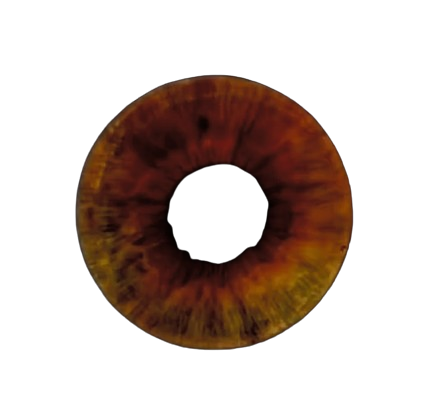
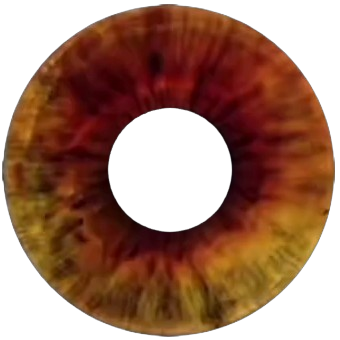
feature eye rotate

diff --git a/src/components/InfoMain.js b/src/components/InfoMain.js
@@ -1,24 +1,31 @@
 import React, { useState, useEffect } from 'react';
 import { Link } from 'react-router-dom';
 import '../App.css';
-import Eye1 from '../pictures/eye1.png'
+import Eye1 from '../pictures/eye1.png';
+import Eye2 from '../pictures/eye2.png';
+import Eye3 from '../pictures/eye3.png';
+import Eye4 from '../pictures/eye4.png';
+import Eye5 from '../pictures/eye5.png';
+import Eye6 from '../pictures/eye6.png';
+import Eye7 from '../pictures/eye7.png';
+import Eye8 from '../pictures/eye8.png';
 
 function InfoMain() {
   const [isHovered, setIsHovered] = useState(false);
   const [isHoneyVisible, setIsHoneyVisible] = useState(true);
-  const [showImage, setShowImage] = useState(false); // For image display
+  const [startAnimation, setStartAnimation] = useState(false); // Zustand für Animation
 
   useEffect(() => {
     let timer;
     if (isHovered) {
-      // Start a 3-second timer when hovered
+      // 3-Sekunden-Timer für das Ausblenden des Textes
       timer = setTimeout(() => {
-        setIsHoneyVisible(false);  // Hide the button after 3 seconds
-      }, );
+        setIsHoneyVisible(false);
+        setStartAnimation(true); // Start Animation nach 3 Sekunden
+      }, 20);
     }
 
-    // Cleanup the timer when hover stops or component unmounts
-    return () => clearTimeout(timer);
+    return () => clearTimeout(timer); // Timer bereinigen
   }, [isHovered]);
 
   return (
@@ -34,27 +41,70 @@ function InfoMain() {
         <Link to="/opal-videos"><button className='button5'>Opal Videos</button></Link>
 
         <Link to="/Honey">
-          <button
-            className='buttonHoney'
-            onMouseEnter={() => setIsHovered(true)}
-          >
+          <button className='buttonHoney' onMouseEnter={() => setIsHovered(true)}>
             Honey
           </button>
         </Link>
 
-        {isHovered && <span className='hover-text'>I love you Honey</span>}
+        {isHovered && (
+          <div className="text-container">
+            <span className='hover-text'>I love you Honey</span>
+          </div>
+        )}
+
+        {/* Separater Container für das Auge */}
+        {startAnimation && (
+          <div className="eye-animation-container">
+            <EyeAnimation />
+          </div>
+        )}
+
+
+
+
 
         <Link to="/Miko"><button className='button7'>Miko</button></Link>
 
-        {/* This text will disappear after 3 seconds */} 
-        {isHoneyVisible && <span className='hover-text-honey' onMouseEnter={() => setIsHovered(true)}>hover me my love</span>}
-
-        {/* Image appears when hovered */}
-        {isHoneyVisible && <span className='love'></span>}
-
+        {isHoneyVisible && (
+          <span className='hover-text-honey' onMouseEnter={() => setIsHovered(true)}>
+            hover me my love
+          </span>
+        )}
       </div>
     </div>
   );
 }
+
+// Augen-Animation Komponente
+function EyeAnimation() {
+  const [currentImage, setCurrentImage] = useState(0);
+
+  const images = [Eye1, Eye2, Eye3, Eye4, Eye5, Eye6, Eye7, Eye8]; // Deine neuen Augenbilder
+
+  useEffect(() => {
+    const interval = setInterval(() => {
+      let randomIndex;
+      do {
+        randomIndex = Math.floor(Math.random() * images.length);
+      } while (randomIndex === currentImage); // Stelle sicher, dass es ein anderes Bild ist
+      setCurrentImage(randomIndex);
+    },90); // Zeit in Millisekunden zwischen jedem Bildwechsel
+
+    return () => clearInterval(interval); // Bereinige das Intervall, wenn die Komponente entladen wird
+  }, [currentImage]);
+
+  return (
+    <div>
+      <img 
+        src={images[currentImage]} 
+        alt="Eye Animation" 
+        className="eye-animation" 
+        style={{ width: '200px', height: '200px' }} // Passe die Größe der Bilder an
+      />
+    </div>
+  );
+}
+
+
 
 export default InfoMain;

diff --git a/src/App.css b/src/App.css
@@ -85,6 +85,8 @@ body {
   font-weight: 700;
   padding: 10px 20px;
   justify-content: space-around;
+  position: relative;
+  z-index: 2;
 
 }
 
@@ -129,62 +131,54 @@ body {
 .buttonHoney:hover {
   cursor: -webkit-grabbing;
 }
-.hover-text {
-  position: inherit;
-  top: calc(50% - 15px); /* Nimmt die Hälfte der Schriftgröße von 20px */
-  left: auto;
-  align-items: inherit;
-  align-self: center;
-  transform: translate();
-  background-color: rgb(255, 255, 255);
-  color: white;
-  border-radius: 6px;
-  visibility: visible;
-  opacity: 1;
-  white-space: nowrap;
-  color: rebeccapurple;
-  font-size: 30px;
+.hover-text, .hover-text-honey {
+  position: absolute;
+  top: 50%; /* Gleiche vertikale Position */
+  left: 50%; /* Gleiche horizontale Position */
+  transform: translate(-50%, -50%); /* Exakte Zentrierung */
+  white-space: nowrap; /* Verhindert Textumbruch */
+  z-index: 2; /* Sicherstellen, dass beide Texte im Vordergrund sind */
 }
-.love {
-  position: inherit;
-  top: calc(50% - 15px); /* Nimmt die Hälfte der Schriftgröße von 20px */
-  left: auto;
-  right: auto;
-  align-items: inherit;
-  align-self: center;
-  transform: translate();
-  background-color: none;
-  opacity: 1;
-  white-space: nowrap;
-  color: rebeccapurple;
-  font-size: 30px;
-  background-image: url(./pictures/eye1.png);
-  background-size: cover;
-  
 
+.hover-text {
+  font-size: 30px;
+  color: rebeccapurple;
 }
 
 .hover-text-honey {
-  position: inherit;
-  top: calc(50% - 6px); /* Nimmt die Hälfte der Schriftgröße von 12px */
-  left: auto;
-  align-items: inherit;
-  align-self: center;
-  transform: translate();
-  background-color: rgb(255, 255, 255);
-  color: white;
-  border-radius: 6px;
-  visibility: visible;
-  opacity: 1;
-  white-space: nowrap;
+  font-size: 40px; /* Selbe Schriftgröße */
   color: darkred;
-  font-size: 12px;
+  z-index: 1; /* Leicht hinter dem großen Text */
 }
+
 
 .buttonCustom:hover {
   background-color: #000000;
 }
+.text-container {
+  position: absolute;
+  top: 50%; /* Behalte den Text zentriert */
+  left: 50%;
+  transform: translate(-50%, -50%);
+  z-index: 2; /* Halte den Text vor dem Auge */
+}
 
+.eye-animation-container {
+  position: absolute;
+  left: 50%; /* Positioniere es mittig */
+  top: -350px;
+  transform: translate(-50%, -0%);
+  z-index: 1;
+  width: 200px; /* Stelle sicher, dass der Container eine feste Breite hat */
+  height: auto;
+  }
+  
+
+
+.eye-animation {
+  width: 200px; /* Größe des Auges */
+  height: auto;
+}
 p {
   font-size: 1.2rem;
   margin-bottom: 20px;
